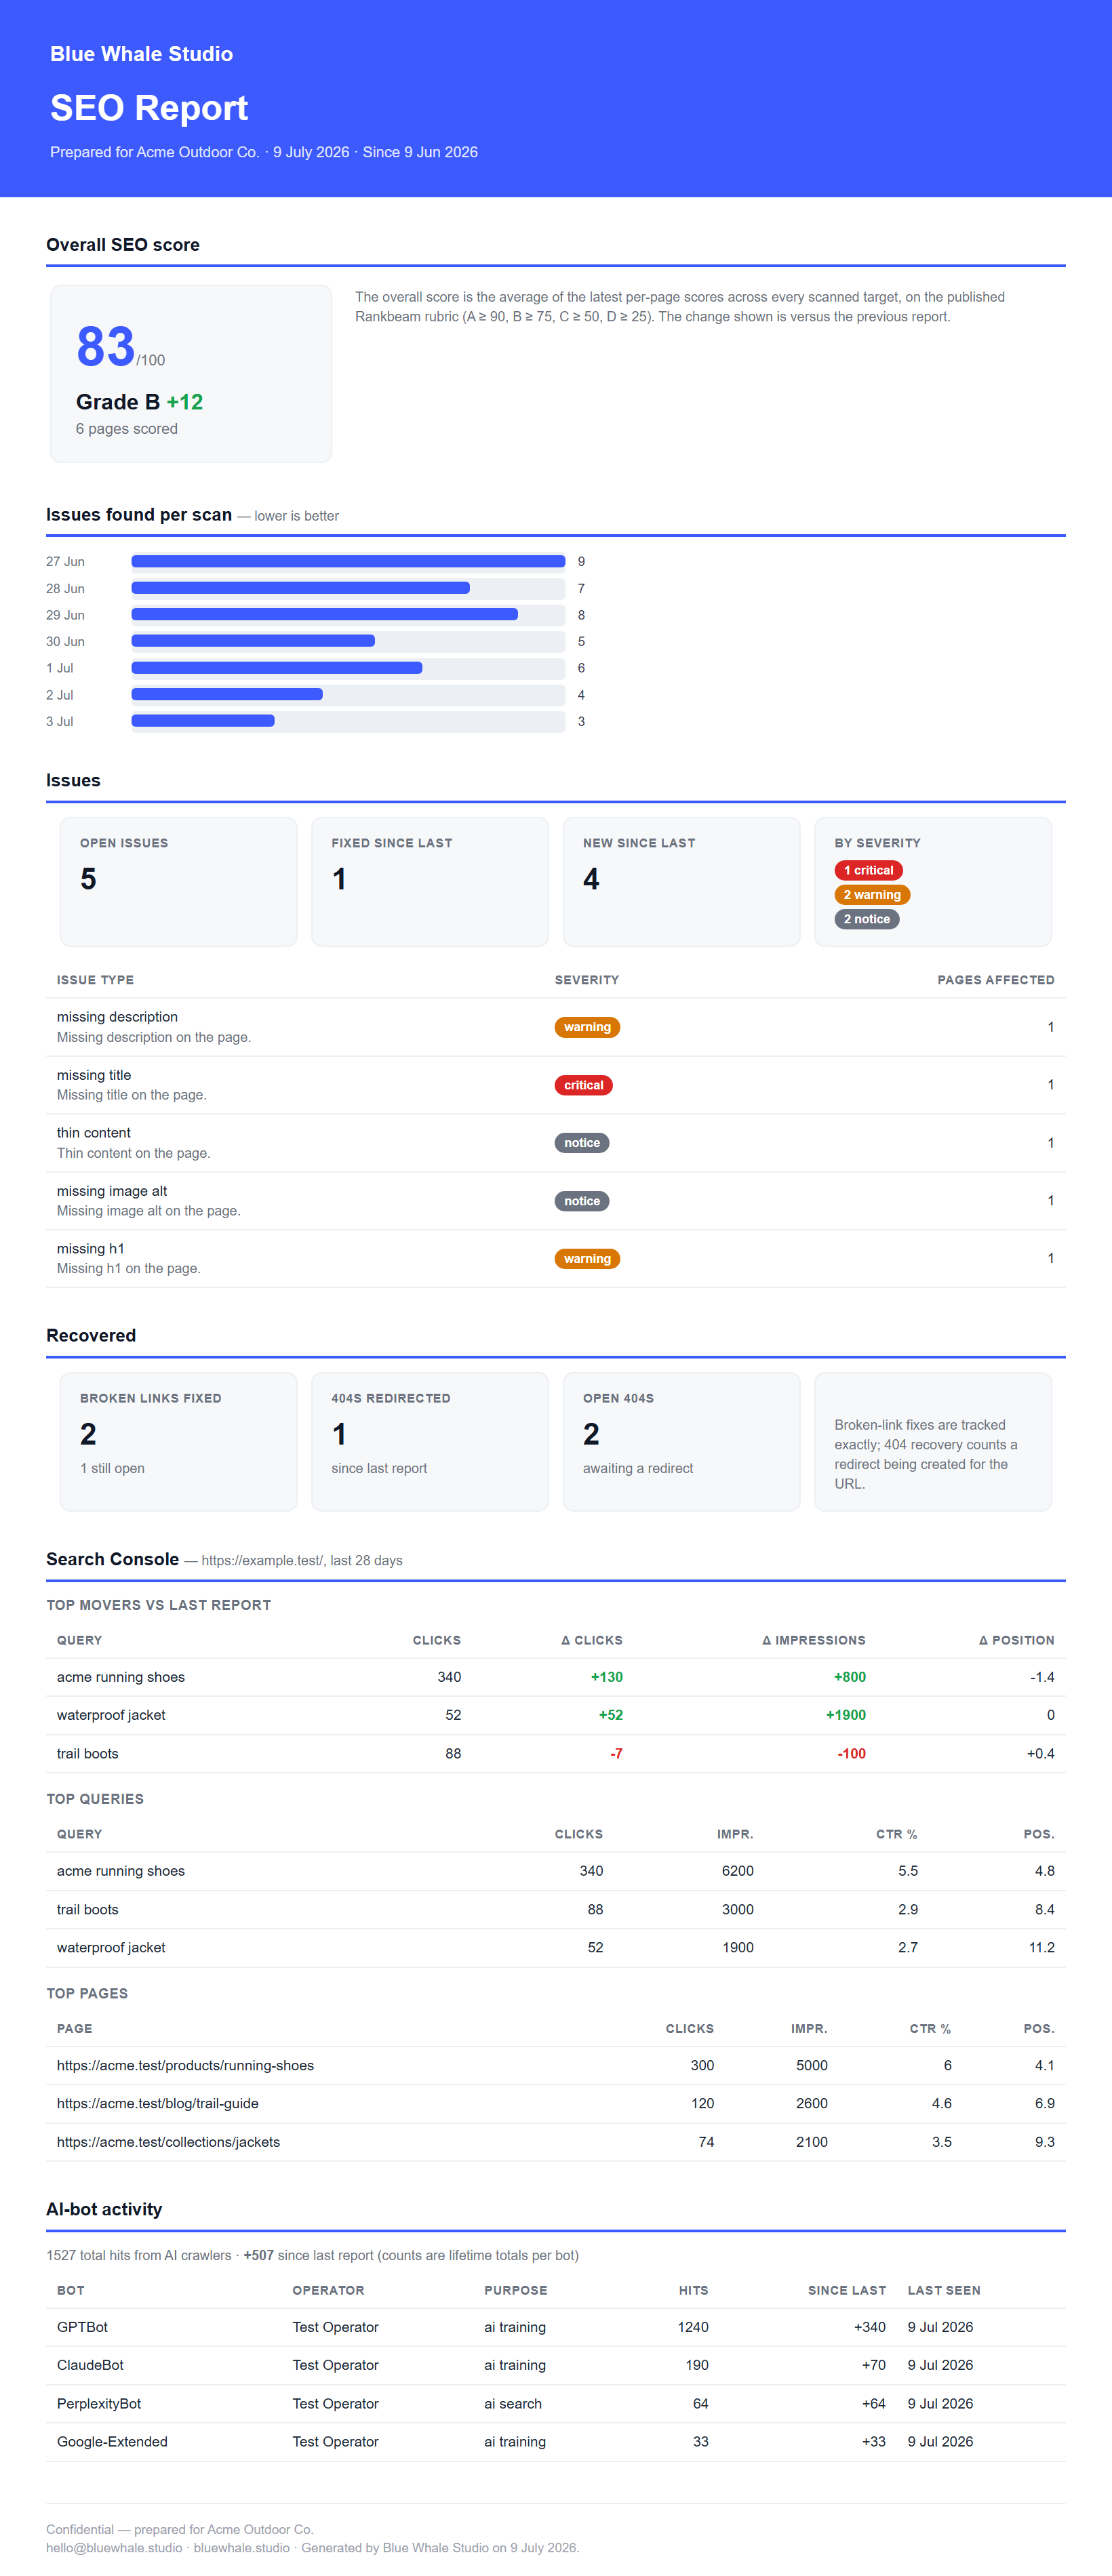
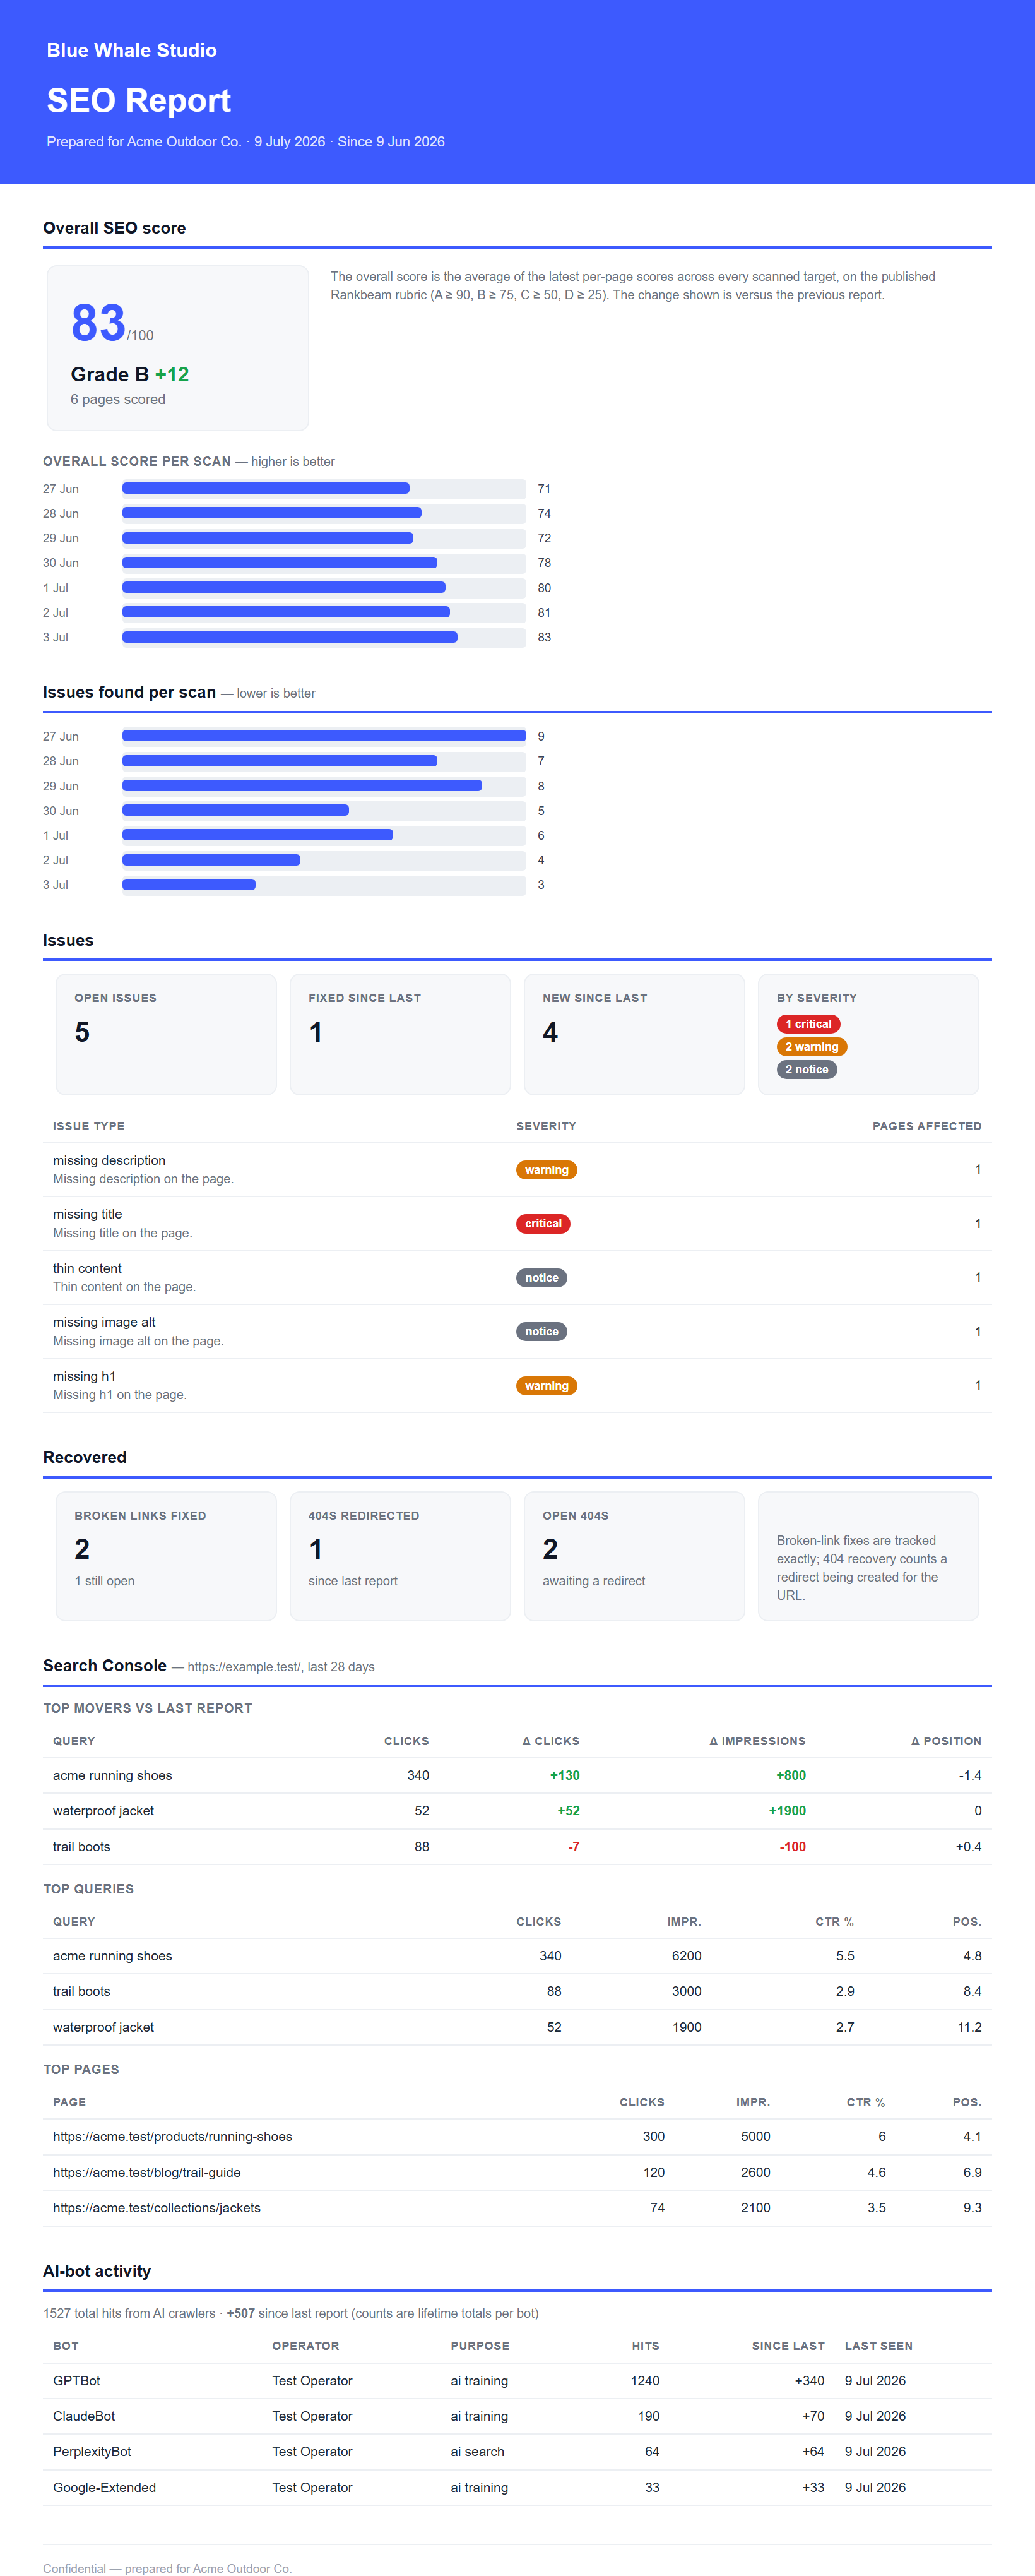
docs(pro): report overall-score trend (v2.18.0)
Document the per-run overall-score trend added in laravel-seo-pro v2.18.0
(each finished scan now stamps its site score, so the report charts a real
per-scan score line) and refresh the example screenshot to show it.

diff --git a/docs/pro/reports.md b/docs/pro/reports.md
@@ -14,7 +14,11 @@ month.
 ## What's in it
 
 - **Overall score** — the average of the latest per-page scores (the published
-  [rubric](/pro/scoring): A ≥ 90 … F), with the change since your last report.
+  [rubric](/pro/scoring): A ≥ 90 … F), with the change since your last report,
+  plus an **overall-score trend** across your recent scans. Each scan now stamps
+  the site's score onto the run, so the trend is real per-scan history — it
+  starts filling in from the first scan after you upgrade (older runs carry no
+  score and are simply skipped).
 - **Issues found per scan** — a real trend over your recent completed scans
   (fewer is better).
 - **Issues fixed vs. new** — the open-issue set diffed against the previous